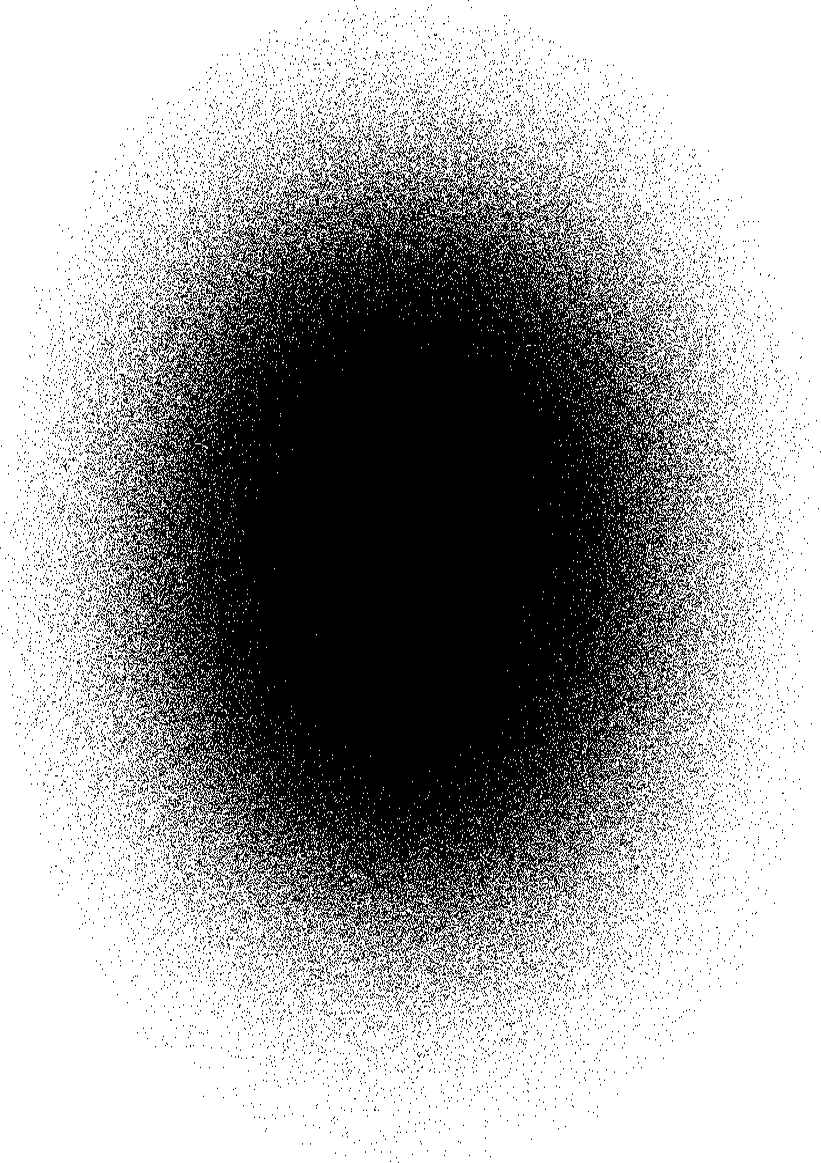
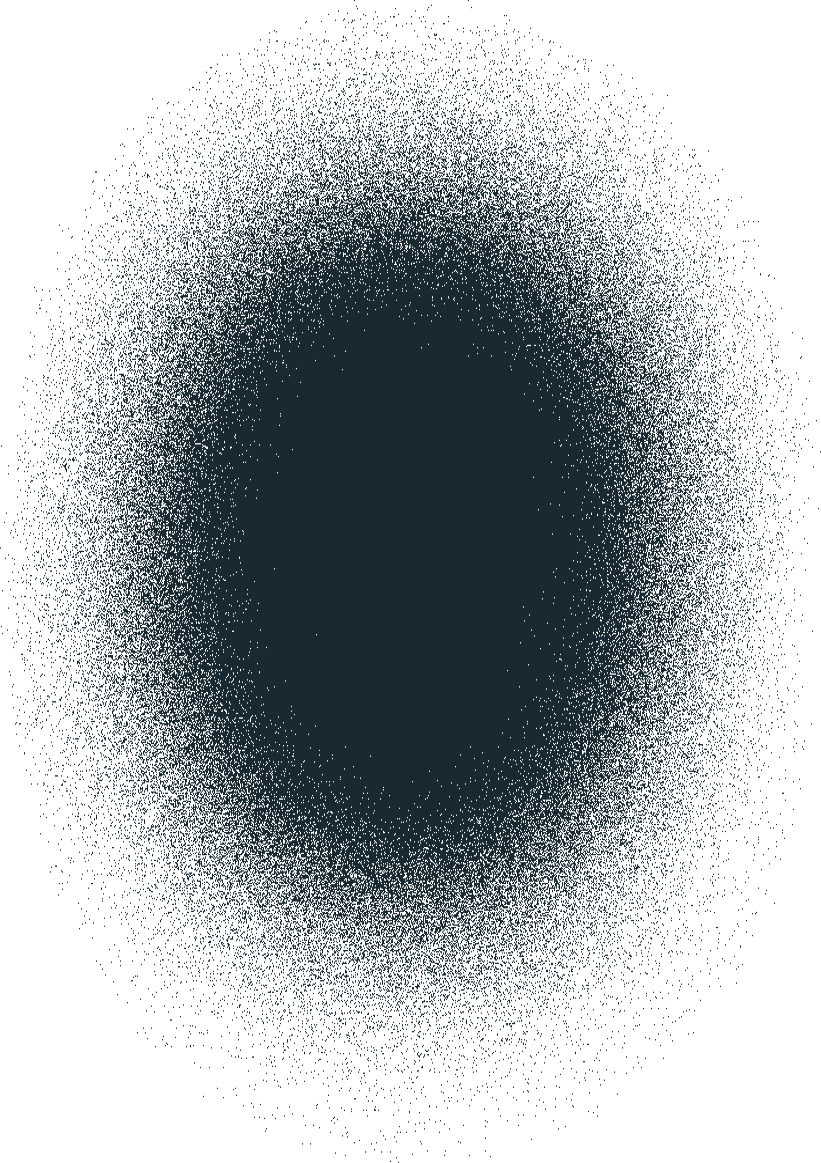
design changes

diff --git a/less/layouts/default.less b/less/layouts/default.less
@@ -85,7 +85,7 @@ section {
         @media screen and (min-width: @large-phone) {
           width: 8rem;
           margin-top: 8.5rem;
-          font-size: 1.4rem;
+          font-size: 1.2rem;
         }
       }
     }
@@ -103,7 +103,7 @@ section {
     line-height: 3rem;
     font-size: 1.4rem;
     font-weight: 100;
-    border-bottom: 1px @near-black solid;
+    border-bottom: 1px @darkergreen solid;
 
     @media screen and (min-width: @small-phone) {
       max-width: 20rem;
@@ -130,12 +130,13 @@ section {
     margin-bottom: 2rem;
     color: #fff;
     font-weight: 700;
+    font-size: 3.2rem;
   }
 
   p.answer {
     margin-bottom: 3rem;
     padding-bottom: 3rem;
-    border-bottom: 1px solid @near-black;
+    border-bottom: 1px solid @darkergreen;
 
     &:last-child {
       margin-bottom: 5rem;

diff --git a/less/base/variables.less b/less/base/variables.less
@@ -2,7 +2,7 @@
 // ------
 
 @white: #fff;
-@black: #000;
+@black: #182931;
 @grey: #aaa;
 @light-grey: #dedede;
 @dark-grey: #545454;
@@ -12,13 +12,17 @@
 @red: #ff2626;
 @yellow: #ffdc99;
 
+@green: #182931;
+@lightgreen: #223944;
+@darkergreen: #132027;
+
 @twitter-blue: #55acee;
 @facebook-blue: #3b5999;
 
 // Typography
 // ----------
 
-@heading-font-bold: 'balboa-plus-fill', sans-serif; 
+@heading-font-bold: 'futura', sans-serif; 
 @heading-font: 'mr-eaves-sans', Helvetica, sans-serif;
 @body-font: 'open-sans', sans-serif;
 

diff --git a/less/base/common.less b/less/base/common.less
@@ -36,7 +36,7 @@ h1 {
   position: relative;
 
   @media screen and (min-width: @large-phone) {
-    font-size: 14rem;
+    font-size: 10rem;
   }
 
   &:after {
@@ -55,6 +55,20 @@ h2, h3, h4, h5, h6 {
   line-height: 1.1;
   margin: 0 auto 2rem;
 }
+
+h1.faqq{
+  margin-bottom: 60px;
+  margin-top:40px;
+  font-size: 6rem;
+}
+
+h1.faqq:after{
+  box-shadow: none;
+  font-size: 6rem;
+}
+
+
+
 
 h2 {
   margin: 8rem auto 3rem;

diff --git a/less/components/form.less b/less/components/form.less
@@ -11,8 +11,8 @@
 .petition-form {
   max-width: 64rem;
   margin: 0 auto;
-  background-color: @black;
-  border: 1px @near-black solid;
+  background-color: #213a46;
+  border: 1px #213a46 solid;
   border-radius: 0.5rem;
   transform: translateY(0);
 
